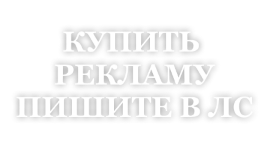
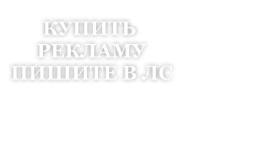
Updated loading screen

diff --git a/content/dota_addons/petri_reborn/panorama/styles/custom_game/custom_loading_screen.css b/content/dota_addons/petri_reborn/panorama/styles/custom_game/custom_loading_screen.css
@@ -1,4 +1,4 @@
-@define TotalLength: 40s;
+@define TotalLength: 70s;
 @define TimingFunc: linear;
 @define IterationCount: infinite;
 @define AnimationDelay: 0s;
@@ -56,7 +56,7 @@
 {
   width: 750px;
   height: 300px;
-  margin-top: 490px;
+  margin-top: 690px;
   margin-left: 25px;
 }
 
